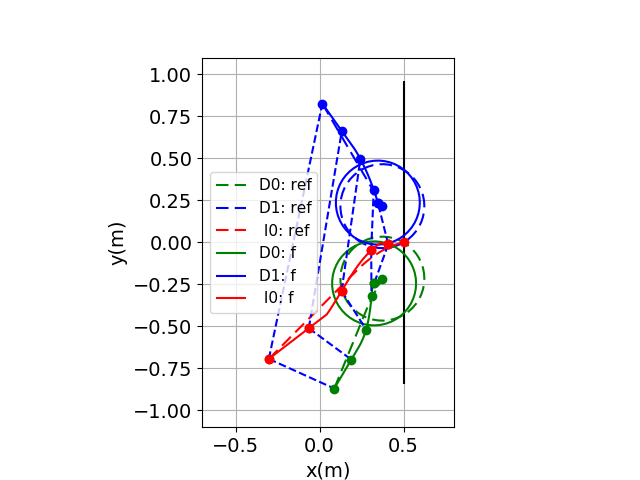
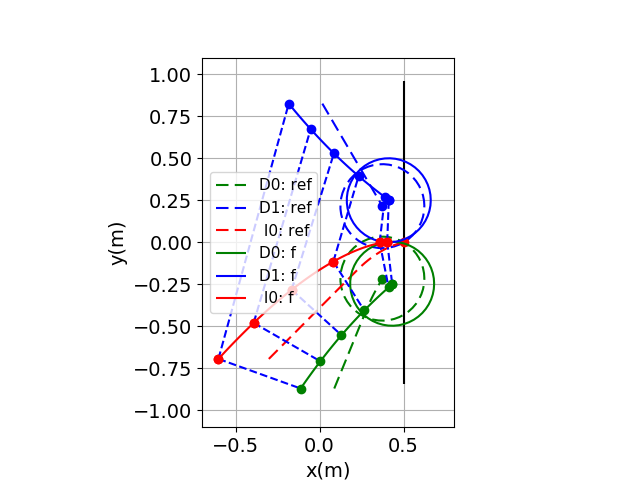
adjusted f_strategy

Changed region(s): [[0.3125, 0.1875, 0.6875, 0.8438], [0.4375, 0.4375, 0.4688, 0.5], [0.4062, 0.3125, 0.4375, 0.3438]]

diff --git a/Games.py b/Games.py
@@ -473,12 +473,13 @@ class SlowDgame(BaseGame):
 		# print('\n')				
 
 		y1 =  cm.sqrt(2*m)/2 - cm.sqrt(-(2*p + 2*m + cm.sqrt(2)*q/cm.sqrt(m)))/2 - b/4
-		# y2 =  cm.sqrt(2*m)/2 + cm.sqrt(-(2*p + 2*m + cm.sqrt(2)*q/cm.sqrt(m)))/2 - b/4
+		y2 =  cm.sqrt(2*m)/2 + cm.sqrt(-(2*p + 2*m + cm.sqrt(2)*q/cm.sqrt(m)))/2 - b/4
 		# y3 = -cm.sqrt(2*m)/2 - cm.sqrt(-(2*p + 2*m - cm.sqrt(2)*q/cm.sqrt(m)))/2 - b/4
 		# y4 = -cm.sqrt(2*m)/2 + cm.sqrt(-(2*p + 2*m - cm.sqrt(2)*q/cm.sqrt(m)))/2 - b/4
 
 		# y = np.clip(self.target.y0, y1.real, y2.real)
-		y = y1.real
+		# y = 0.5*(y1 + y2).real
+		# y = y1.real
 		# print(y1)
 		# print(y2)
 		# print(y3)
@@ -486,7 +487,8 @@ class SlowDgame(BaseGame):
 		# print('\n')
 
 		# return np.array([y, 0])
-		return np.array([y, 0])
+		# return np.array([y, 0])
+		return np.array([y1.real, 0]), np.array([y2.real, 0])
 
 	@Iwin_wrapper
 	def nn_strategy(self, xs):
@@ -507,15 +509,17 @@ class SlowDgame(BaseGame):
 		D1_I, D2_I, D1_D2 = self.get_vecs(xs)
 		base = self.get_base(D1_I, D2_I, D1_D2)
 		x, y, z = self.get_xyz(D1_I, D2_I, D1_D2)
-		xt = self.deepest_in_target(xs)
+		xtI, xtD = self.deepest_in_target(xs)
 
-		P = np.concatenate((xt, [0]))
+		Pi = np.concatenate((xtI, [0]))
+		Pd = np.concatenate((xtD, [0]))
 		D1_ = np.array([0, -z, 0])
 		D2_ = np.array([0,  z, 0])
 		I_ = np.array([x, y, 0])
-		D1_P = P - D1_
-		D2_P = P - D2_
-		I_P = P - I_
+		k = .5
+		D1_P = k*Pd + (1-k)*Pi - D1_
+		D2_P = k*Pd + (1-k)*Pi - D2_
+		I_P = Pi - I_
 		D1_I_ = I_ - D1_
 		D2_I_ = I_ - D2_
 		D1_D2_ = D2_ - D1_

diff --git a/strategy_test.py b/strategy_test.py
@@ -27,9 +27,9 @@ else:
 	x0 = dict()
 	for role in xref:
 		if 'I' in role:
-			x0[role] = xref[role][0] + np.array([0., .0])
+			x0[role] = xref[role][0] + np.array([0., .3])
 		else:
-			x0[role] = xref[role][0]
+			x0[role] = xref[role][0] + np.array([0., .2])
 
 	xplot['ref'] = xref
 	# rgame.reset(x0)
@@ -39,7 +39,7 @@ else:
 	# x0 = {'D0': np.array([-.6, 0.9]), 'I0': np.array([-.1, 1.2]), 'D1': np.array([.6, 0.9])}
  
 game.reset(x0)
-tplay, xplay = game.advance(8.)
+tplay, xplay = game.advance(10.)
 xplot['play'] = xplay
 
 fname = '_'.join([strategy for role, strategy in game.pstrategy.items()])
